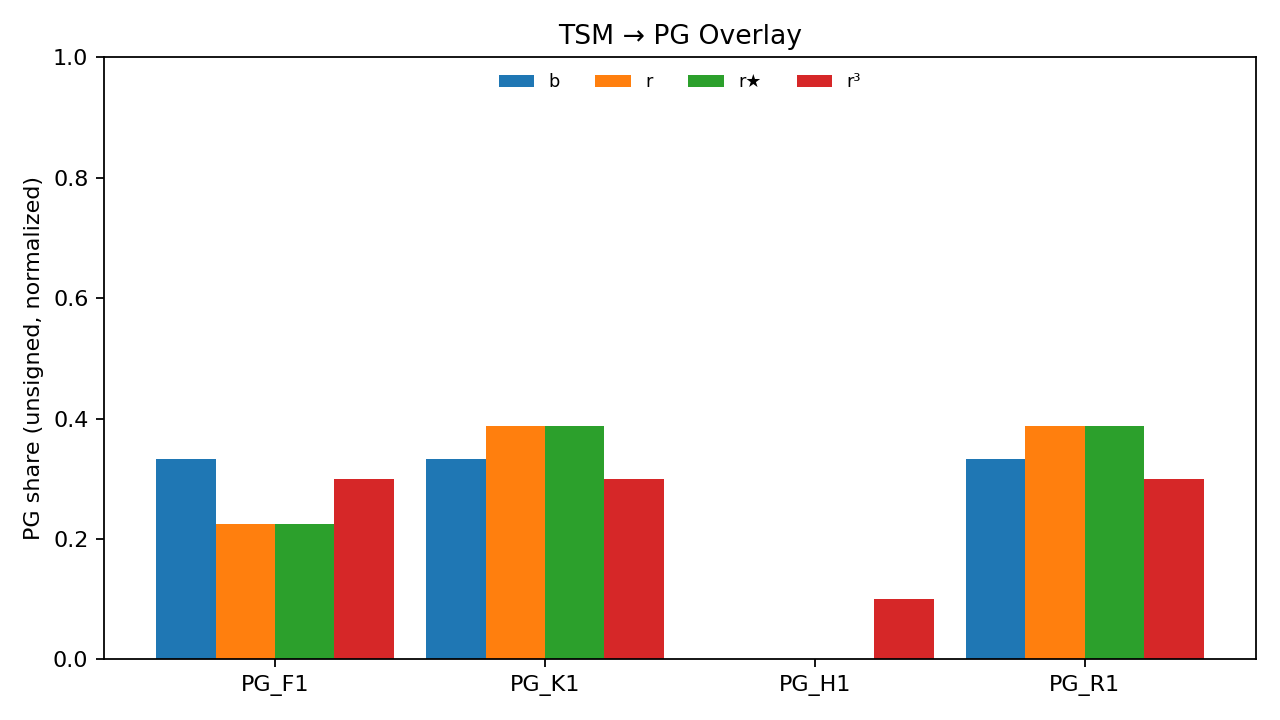
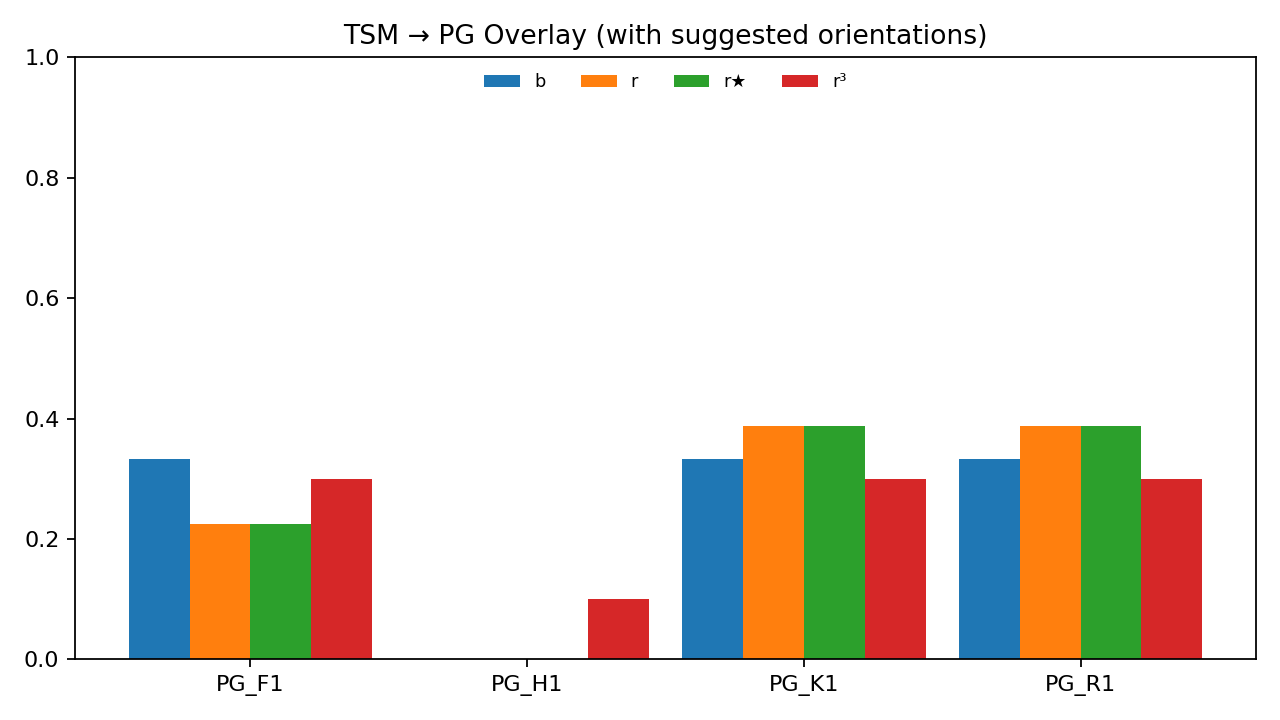
PG orientation tuner: suggestion + overlay refresh

diff --git a/bridge/pg_orientation_tuner_report.md b/bridge/pg_orientation_tuner_report.md
@@ -1,0 +1,12 @@
+# PG Orientation Tuner — Report
+- bundle: `tsm-online-bundle_v1.25.json`
+- facets: ['PG_F1', 'PG_H1', 'PG_K1', 'PG_R1']
+
+Baseline cosine(r³, target) = 0.956854 (target = r★/b)
+Best     cosine(r³, target) = 0.956854
+
+## Suggested orientation per facet (old → new)
+- PG_F1: +1 → -1
+- PG_H1: +1 → -1
+- PG_K1: +1 → -1
+- PG_R1: -1 → -1
